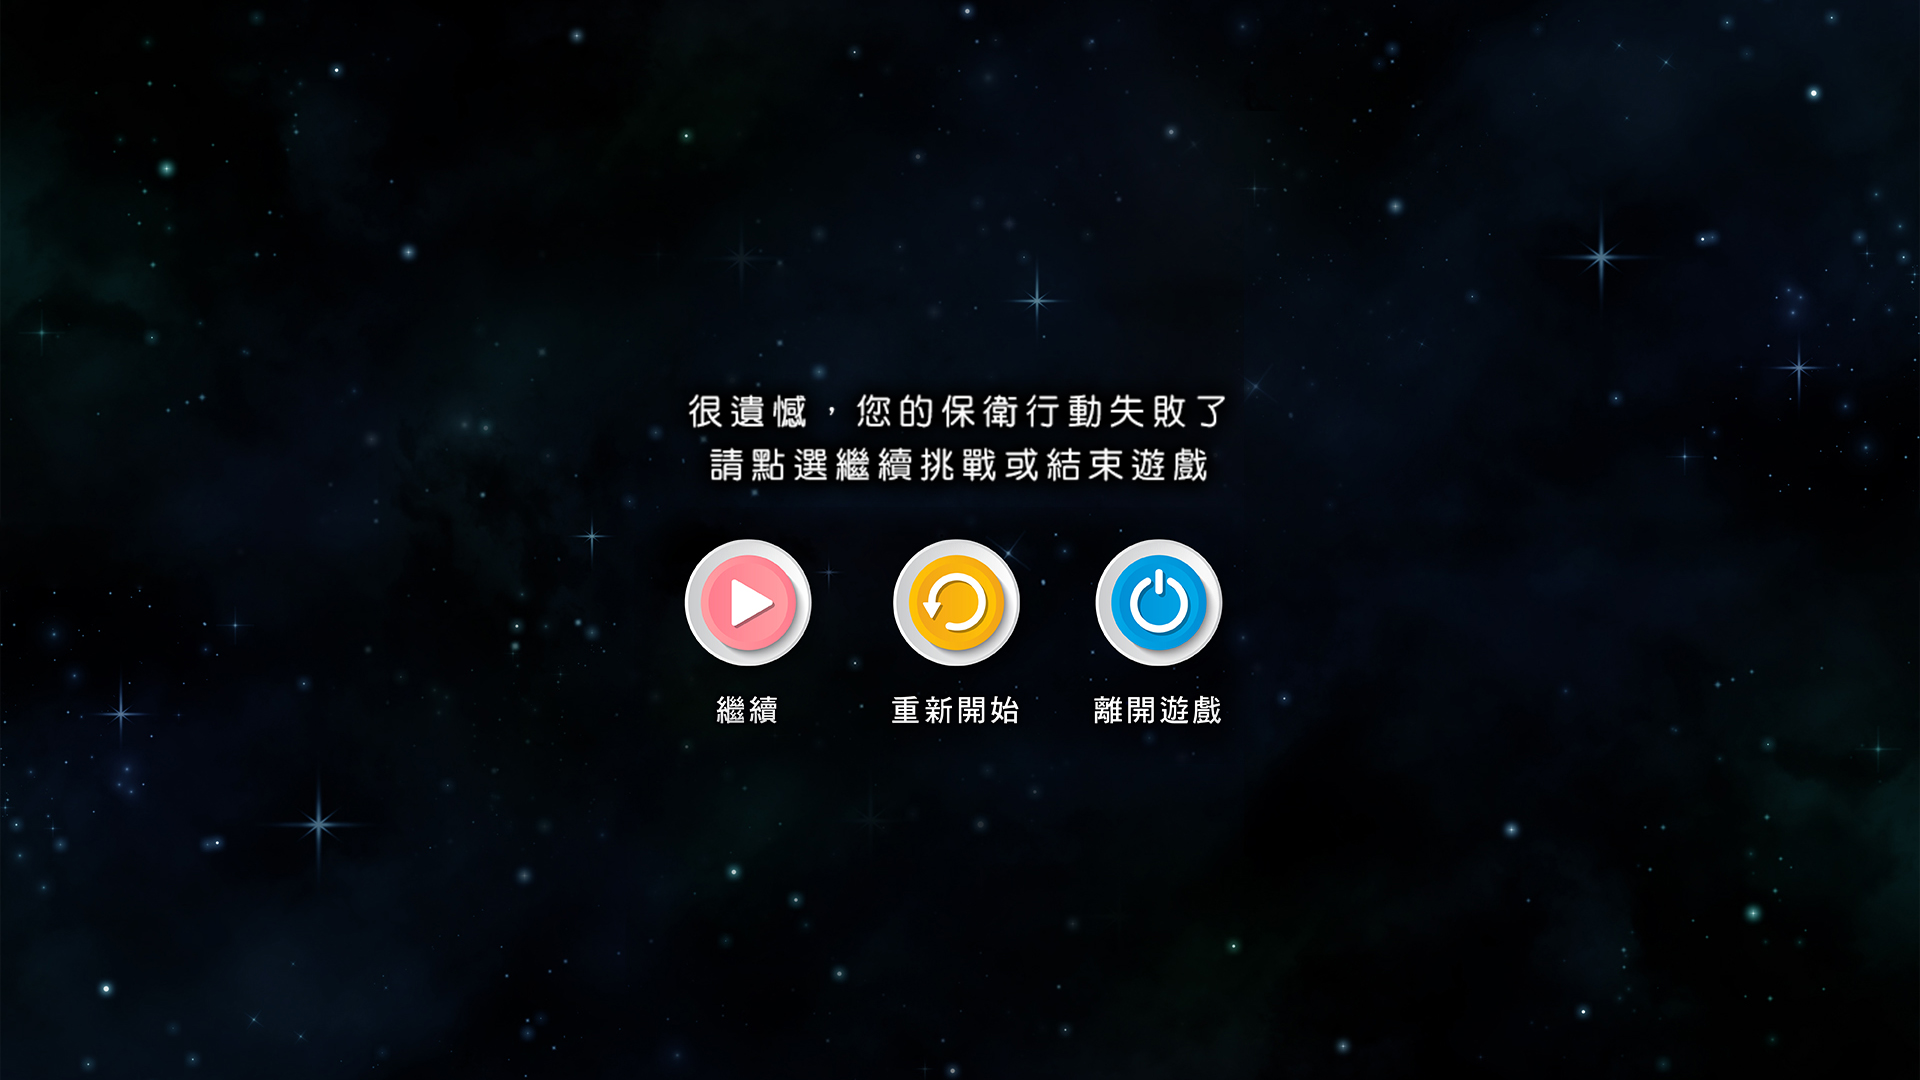
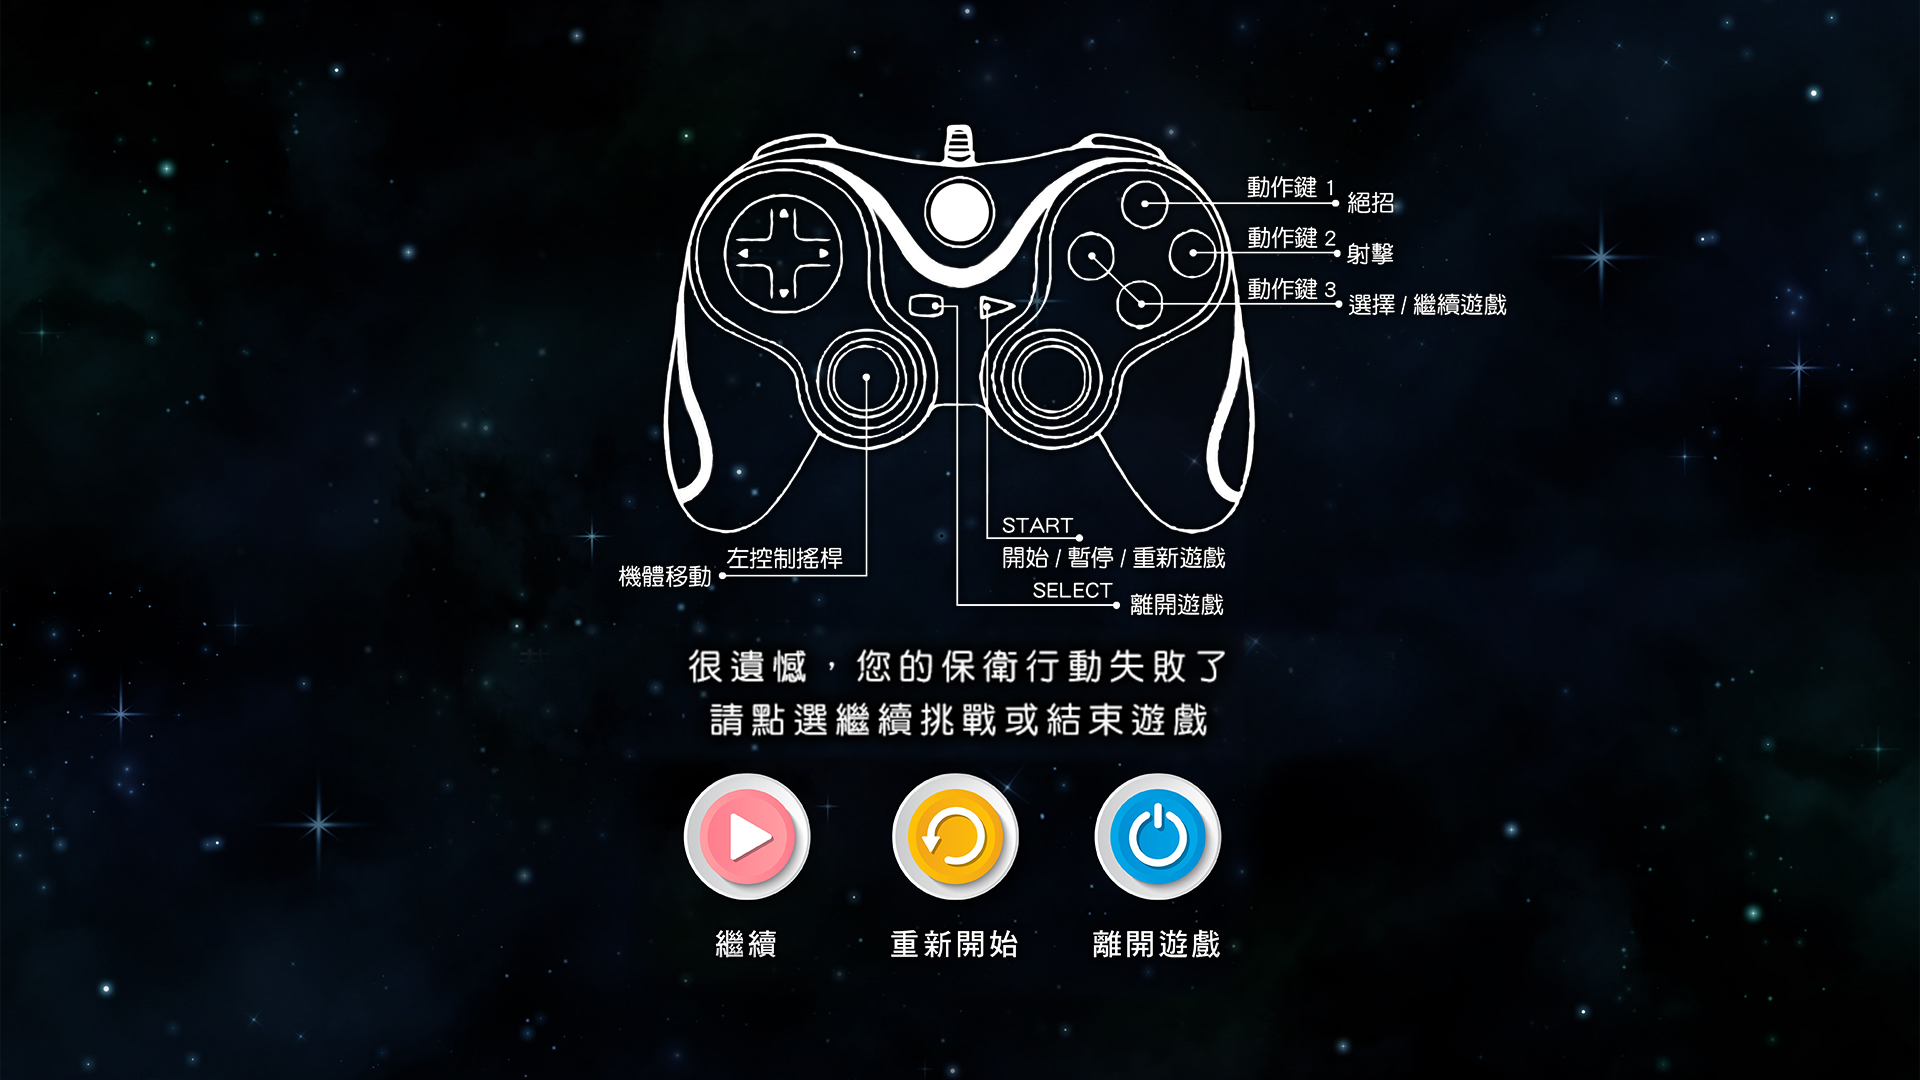
dw

Changed region(s): [[0.3125, 0.1222, 0.7812, 0.8861]]

diff --git a/Assets/script/UI/UIAction.cs b/Assets/script/UI/UIAction.cs
@@ -37,22 +37,35 @@ public class UIAction : MonoBehaviour {
                 // Debug.Log("x:" + x + " cg.alpha:" + cg.alpha);
         }, 1, 2);
 
-
-        if ( Input.GetAxis("Horizontal_player1") < 0 ) {
-            PlayerPrefs.SetInt("player_num", 1);
-            PlayerPrefs.SetInt("players",  1);
-            player1.transform.GetChild(1).gameObject.SetActive(true);
-            player2.transform.GetChild(1).gameObject.SetActive(false);
-        } else if ( Input.GetAxis("Horizontal_player1") > 0 ) {
-            PlayerPrefs.SetInt("player_num", 2);
-            PlayerPrefs.SetInt("players",  2);
-            player1.transform.GetChild(1).gameObject.SetActive(false);
-            player2.transform.GetChild(1).gameObject.SetActive(true);
+        if (SceneManager.GetActiveScene().name == "Start") {
+            if ( Input.GetAxis("Horizontal_player1") < 0 ) {
+                PlayerPrefs.SetInt("player_num", 1);
+                PlayerPrefs.SetInt("players",  1);
+                player1.transform.GetChild(1).gameObject.SetActive(true);
+                player2.transform.GetChild(1).gameObject.SetActive(false);
+            } else if ( Input.GetAxis("Horizontal_player1") > 0 ) {
+                PlayerPrefs.SetInt("player_num", 2);
+                PlayerPrefs.SetInt("players",  2);
+                player1.transform.GetChild(1).gameObject.SetActive(false);
+                player2.transform.GetChild(1).gameObject.SetActive(true);
+            }
+            if ( Input.GetAxis("Horizontal_player2") < 0 ) {
+                PlayerPrefs.SetInt("player_num", 1);
+                PlayerPrefs.SetInt("players",  1);
+                player1.transform.GetChild(1).gameObject.SetActive(true);
+                player2.transform.GetChild(1).gameObject.SetActive(false);
+            } else if ( Input.GetAxis("Horizontal_player2") > 0 ) {
+                PlayerPrefs.SetInt("player_num", 2);
+                PlayerPrefs.SetInt("players",  2);
+                player1.transform.GetChild(1).gameObject.SetActive(false);
+                player2.transform.GetChild(1).gameObject.SetActive(true);
+            }
         }
 
         // 搖桿 開始遊戲
-        if ( (PlayerPrefs.GetInt("player_num") == 1 || PlayerPrefs.GetInt("player_num") == 2) && Input.GetButtonDown ("Start") ) {
-            SceneManager.LoadScene("TransferScene");
+        if ( (PlayerPrefs.GetInt("player_num") == 1 || PlayerPrefs.GetInt("player_num") == 2) && Input.GetButtonDown ("Continue") ) {
+            // SceneManager.LoadScene("TransferScene");
+            SceneManager.LoadScene("game");
         }
 	}
 }

diff --git a/Assets/script/plant/PlantFire.cs b/Assets/script/plant/PlantFire.cs
@@ -71,6 +71,7 @@ public class PlantFire : MonoBehaviour {
 
         // }
 
+        // 使用大絕招
         if ( (gameObject.name == "plant_1" && (Input.GetKeyUp(KeyCode.RightShift) || Input.GetButtonDown ("Fire2_player1")))
             || ( gameObject.name == "plant_2" && (Input.GetKeyUp(KeyCode.LeftControl) || Input.GetButtonDown ("Fire2_player2")) )
         ) {
@@ -83,9 +84,11 @@ public class PlantFire : MonoBehaviour {
                 GameObject[] gameObjects;
                 gameObjects = GameObject.FindGameObjectsWithTag("Mob");
 
+                GameObject bullet = pool.ReUse( bullet_name[bullet_type], transform.position + new Vector3(0, 1f, 0), transform.rotation );
                 for(var i = 0 ; i < gameObjects.Length ; i ++) {
-                    gameObjects[i].GetComponent<Mob>().OnTriggerEnter2D(pool.ReUse( bullet_name[bullet_type], transform.position + new Vector3(0, 1f, 0), transform.rotation).GetComponent<Collider2D>());
+                    gameObjects[i].GetComponent<Mob>().OnTriggerEnter2D(bullet.GetComponent<Collider2D>());
                 }
+                pool.Recovery(bullet_name[bullet_type], bullet);
             }
 
             gameObject.GetComponent<Plant>().Extra_skill_count -= 1;

diff --git a/Assets/script/GameSetting.cs b/Assets/script/GameSetting.cs
@@ -14,6 +14,10 @@ public class GameSetting : MonoBehaviour {
     public AudioSource stage_audio_2;
     [Header("第三關背景音樂")]
     public AudioSource stage_audio_3;
+    [Header("第一台飛機")]
+    public GameObject plant_1;
+    [Header("第二台飛機")]
+    public GameObject plant_2;
 
     private int maxStage = 3;
     private float[] boss_time = {60f, 60f, 60f};
@@ -145,5 +149,12 @@ public class GameSetting : MonoBehaviour {
     public void ShotDownGame() {
         Time.timeScale = 1f;
         SceneManager.LoadScene("FinalScene");
+    }
+
+    public bool IsPlant1Active() {
+        return plant_1.activeSelf;
+    }
+    public bool IsPlant2Active() {
+        return plant_2.activeSelf;
     }
 }

diff --git a/Assets/script/plant/Plant.cs b/Assets/script/plant/Plant.cs
@@ -121,7 +121,10 @@ public class Plant : MonoBehaviour {
 
                 PlayerPrefs.SetInt("player_num", PlayerPrefs.GetInt("player_num") -1);
 
-                if (PlayerPrefs.GetInt("player_num") <= 0) {
+                if (
+                    // PlayerPrefs.GetInt("player_num") <= 0 &&
+                    (!game_setting.IsPlant1Active() && !game_setting.IsPlant2Active())
+                ) {
                     // 失敗
                     SceneManager.LoadScene("EndFailure");
                 }

diff --git a/Assets/script/UI/PlayerStart.cs b/Assets/script/UI/PlayerStart.cs
@@ -19,7 +19,8 @@ public class PlayerStart : MonoBehaviour {
         GetComponent<Button>().onClick.AddListener(() => {
             PlayerPrefs.SetInt("player_num",  gameObject.name == "1P" ? 1 : 2);
             PlayerPrefs.SetInt("players",  gameObject.name == "1P" ? 1 : 2);
-            SceneManager.LoadScene("TransferScene");
+            // SceneManager.LoadScene("TransferScene");
+            SceneManager.LoadScene("game");
         });
 
 

diff --git a/Assets/script/UI/TransferScene.cs b/Assets/script/UI/TransferScene.cs
@@ -16,6 +16,7 @@ public class TransferScene : MonoBehaviour {
 		_time += Time.deltaTime;
 
         if (_time >= 1.5f)
-            SceneManager.LoadScene("game");
+            SceneManager.LoadScene("Start");
+            // SceneManager.LoadScene("game");
 	}
 }
